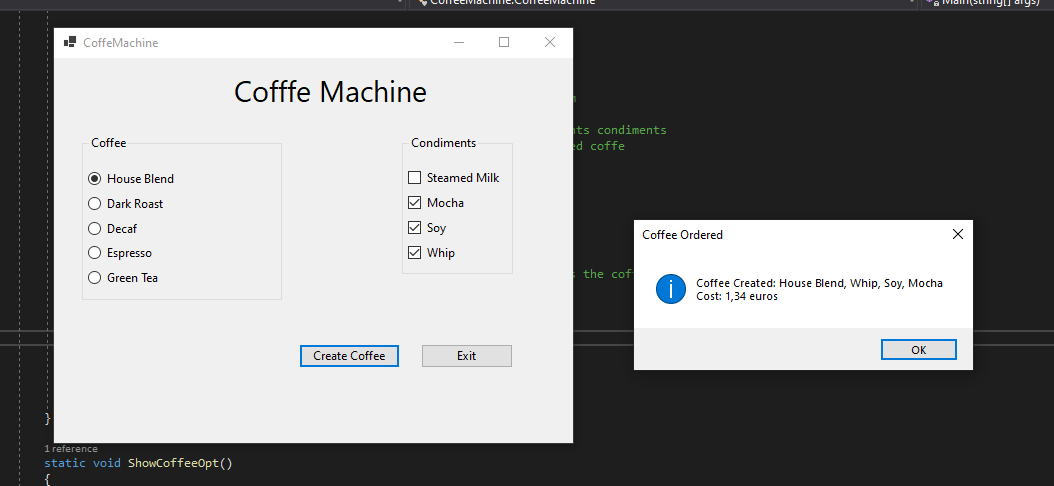
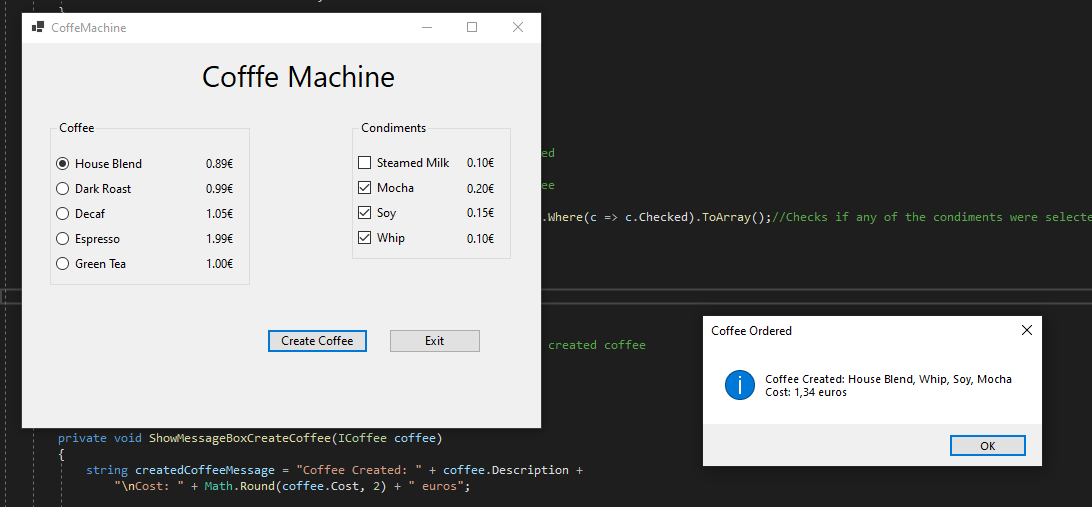
Added prices to Coffee Machine GUI

diff --git a/CoffeeMachine.GraphicalInterface/CoffeeMachineForm.Designer.cs b/CoffeeMachine.GraphicalInterface/CoffeeMachineForm.Designer.cs
@@ -1,4 +1,5 @@
-
+using CoffeeMachine.Data;
+
 namespace CoffeeMachine.GraphicalInterface
 {
     partial class CoffeeMachineForm
@@ -39,116 +40,122 @@ namespace CoffeeMachine.GraphicalInterface
             this.DecafRatioButton = new System.Windows.Forms.RadioButton();
             this.EspressoRationButton = new System.Windows.Forms.RadioButton();
             this.CoffeeBox = new System.Windows.Forms.GroupBox();
+            this.GreenTeaPrice = new System.Windows.Forms.TextBox();
+            this.EspressoPrice = new System.Windows.Forms.TextBox();
+            this.DecafPrice = new System.Windows.Forms.TextBox();
+            this.DarkRoastPrice = new System.Windows.Forms.TextBox();
+            this.HouseBlendPrice = new System.Windows.Forms.TextBox();
             this.GreenTeaRationButton = new System.Windows.Forms.RadioButton();
             this.CoffeMachineName = new System.Windows.Forms.TextBox();
             this.CreateCoffeeButton = new System.Windows.Forms.Button();
             this.ExitButton = new System.Windows.Forms.Button();
+            this.SteamedMilkPrice = new System.Windows.Forms.TextBox();
+            this.MochaPrice = new System.Windows.Forms.TextBox();
+            this.SoyPrice = new System.Windows.Forms.TextBox();
+            this.WhipPrice = new System.Windows.Forms.TextBox();
             this.CondimentsBox.SuspendLayout();
             this.CoffeeBox.SuspendLayout();
             this.SuspendLayout();
-            // 
-            // SteamedMilkCheckBox
-            // 
-            this.SteamedMilkCheckBox.AutoSize = true;
-            this.SteamedMilkCheckBox.Location = new System.Drawing.Point(6, 34);
-            this.SteamedMilkCheckBox.Name = "Steamed Milk";
-            this.SteamedMilkCheckBox.Size = new System.Drawing.Size(98, 19);
-            this.SteamedMilkCheckBox.TabIndex = 0;
-            this.SteamedMilkCheckBox.Text = "Steamed Milk";
-            this.SteamedMilkCheckBox.UseVisualStyleBackColor = true;
-            // 
-            // MochaCheckBox
-            // 
-            this.MochaCheckBox.AutoSize = true;
-            this.MochaCheckBox.Location = new System.Drawing.Point(6, 59);
-            this.MochaCheckBox.Name = "Mocha";
-            this.MochaCheckBox.Size = new System.Drawing.Size(63, 19);
-            this.MochaCheckBox.TabIndex = 1;
-            this.MochaCheckBox.Text = "Mocha";
-            this.MochaCheckBox.UseVisualStyleBackColor = true;
-            // 
-            // SoyCheckBox
-            // 
-            this.SoyCheckBox.AutoSize = true;
-            this.SoyCheckBox.Location = new System.Drawing.Point(6, 84);
-            this.SoyCheckBox.Name = "Soy";
-            this.SoyCheckBox.Size = new System.Drawing.Size(45, 19);
-            this.SoyCheckBox.TabIndex = 2;
-            this.SoyCheckBox.Text = "Soy";
-            this.SoyCheckBox.UseVisualStyleBackColor = true;
-            // 
-            // WhipCheckBox
-            // 
-            this.WhipCheckBox.AutoSize = true;
-            this.WhipCheckBox.Location = new System.Drawing.Point(6, 109);
-            this.WhipCheckBox.Name = "Whip";
-            this.WhipCheckBox.Size = new System.Drawing.Size(54, 19);
-            this.WhipCheckBox.TabIndex = 3;
-            this.WhipCheckBox.Text = "Whip";
-            this.WhipCheckBox.UseVisualStyleBackColor = true;
-            // 
-            // CondimentsBox
-            // 
-            this.CondimentsBox.Controls.Add(this.SteamedMilkCheckBox);
-            this.CondimentsBox.Controls.Add(this.WhipCheckBox);
-            this.CondimentsBox.Controls.Add(this.SoyCheckBox);
-            this.CondimentsBox.Controls.Add(this.MochaCheckBox);
-            this.CondimentsBox.Location = new System.Drawing.Point(348, 77);
-            this.CondimentsBox.Name = "CondimentsBox";
-            this.CondimentsBox.Size = new System.Drawing.Size(111, 140);
-            this.CondimentsBox.TabIndex = 4;
-            this.CondimentsBox.TabStop = false;
-            this.CondimentsBox.Text = "Condiments";
             // 
             // HouseBlendRatioButton
             // 
             this.HouseBlendRatioButton.AutoSize = true;
             this.HouseBlendRatioButton.Location = new System.Drawing.Point(6, 34);
-            this.HouseBlendRatioButton.Name = "House Blend";
+            this.HouseBlendRatioButton.Name = "HouseBlendRatioButton";
             this.HouseBlendRatioButton.Size = new System.Drawing.Size(92, 19);
             this.HouseBlendRatioButton.TabIndex = 5;
             this.HouseBlendRatioButton.TabStop = true;
             this.HouseBlendRatioButton.Text = "House Blend";
             this.HouseBlendRatioButton.UseVisualStyleBackColor = true;
             // 
+            // HouseBlendPrice
+            // 
+            this.HouseBlendPrice.BackColor = System.Drawing.SystemColors.Control;
+            this.HouseBlendPrice.BorderStyle = System.Windows.Forms.BorderStyle.None;
+            this.HouseBlendPrice.Location = new System.Drawing.Point(156, 36);
+            this.HouseBlendPrice.Name = "HouseBlendPrice";
+            this.HouseBlendPrice.Size = new System.Drawing.Size(38, 16);
+            this.HouseBlendPrice.TabIndex = 10;
+            this.HouseBlendPrice.Text = "0.89€";
+            // 
             // DarkRoastRatioButton
             // 
             this.DarkRoastRatioButton.AutoSize = true;
             this.DarkRoastRatioButton.Location = new System.Drawing.Point(6, 59);
-            this.DarkRoastRatioButton.Name = "Dark Roast";
+            this.DarkRoastRatioButton.Name = "DarkRoastRatioButton";
             this.DarkRoastRatioButton.Size = new System.Drawing.Size(81, 19);
             this.DarkRoastRatioButton.TabIndex = 6;
             this.DarkRoastRatioButton.TabStop = true;
             this.DarkRoastRatioButton.Text = "Dark Roast";
             this.DarkRoastRatioButton.UseVisualStyleBackColor = true;
             // 
+            // DarkRoastPrice
+            // 
+            this.DarkRoastPrice.BackColor = System.Drawing.SystemColors.Control;
+            this.DarkRoastPrice.BorderStyle = System.Windows.Forms.BorderStyle.None;
+            this.DarkRoastPrice.Location = new System.Drawing.Point(156, 61);
+            this.DarkRoastPrice.Name = "DarkRoastPrice";
+            this.DarkRoastPrice.Size = new System.Drawing.Size(38, 16);
+            this.DarkRoastPrice.TabIndex = 11;
+            this.DarkRoastPrice.Text = "0.99€";
+            // 
             // DecafRatioButton
             // 
             this.DecafRatioButton.AutoSize = true;
             this.DecafRatioButton.Location = new System.Drawing.Point(6, 84);
-            this.DecafRatioButton.Name = "Decaf";
+            this.DecafRatioButton.Name = "DecafRatioButton";
             this.DecafRatioButton.Size = new System.Drawing.Size(55, 19);
             this.DecafRatioButton.TabIndex = 7;
             this.DecafRatioButton.TabStop = true;
             this.DecafRatioButton.Text = "Decaf";
             this.DecafRatioButton.UseVisualStyleBackColor = true;
             // 
+            // DecafPrice
+            // 
+            this.DecafPrice.BackColor = System.Drawing.SystemColors.Control;
+            this.DecafPrice.BorderStyle = System.Windows.Forms.BorderStyle.None;
+            this.DecafPrice.Location = new System.Drawing.Point(156, 86);
+            this.DecafPrice.Name = "DecafPrice";
+            this.DecafPrice.Size = new System.Drawing.Size(38, 16);
+            this.DecafPrice.TabIndex = 12;
+            this.DecafPrice.Text = "1.05€";
+            // 
             // EspressoRationButton
             // 
             this.EspressoRationButton.AutoSize = true;
-            this.EspressoRationButton.Location = new System.Drawing.Point(6, 108);
-            this.EspressoRationButton.Name = "Espresso";
+            this.EspressoRationButton.Location = new System.Drawing.Point(6, 109);
+            this.EspressoRationButton.Name = "EspressoRationButton";
             this.EspressoRationButton.Size = new System.Drawing.Size(70, 19);
             this.EspressoRationButton.TabIndex = 8;
             this.EspressoRationButton.TabStop = true;
             this.EspressoRationButton.Text = "Espresso";
             this.EspressoRationButton.UseVisualStyleBackColor = true;
             // 
+            // EspressoPrice
+            // 
+            this.EspressoPrice.BackColor = System.Drawing.SystemColors.Control;
+            this.EspressoPrice.BorderStyle = System.Windows.Forms.BorderStyle.None;
+            this.EspressoPrice.Location = new System.Drawing.Point(156, 111);
+            this.EspressoPrice.Name = "EspressoPrice";
+            this.EspressoPrice.Size = new System.Drawing.Size(38, 16);
+            this.EspressoPrice.TabIndex = 13;
+            this.EspressoPrice.Text = "1.99€";
+            // 
+            // GreenTeaPrice
+            // 
+            this.GreenTeaPrice.BackColor = System.Drawing.SystemColors.Control;
+            this.GreenTeaPrice.BorderStyle = System.Windows.Forms.BorderStyle.None;
+            this.GreenTeaPrice.Location = new System.Drawing.Point(156, 136);
+            this.GreenTeaPrice.Name = "GreenTeaPrice";
+            this.GreenTeaPrice.Size = new System.Drawing.Size(38, 16);
+            this.GreenTeaPrice.TabIndex = 14;
+            this.GreenTeaPrice.Text = "1.00€";
+            // 
             // GreenTeaRationButton
             // 
             this.GreenTeaRationButton.AutoSize = true;
-            this.GreenTeaRationButton.Location = new System.Drawing.Point(6, 133);
-            this.GreenTeaRationButton.Name = "Green Tea";
+            this.GreenTeaRationButton.Location = new System.Drawing.Point(6, 134);
+            this.GreenTeaRationButton.Name = "GreenTeaRationButton";
             this.GreenTeaRationButton.Size = new System.Drawing.Size(76, 19);
             this.GreenTeaRationButton.TabIndex = 9;
             this.GreenTeaRationButton.TabStop = true;
@@ -157,6 +164,11 @@ namespace CoffeeMachine.GraphicalInterface
             // 
             // CoffeeBox
             // 
+            this.CoffeeBox.Controls.Add(this.GreenTeaPrice);
+            this.CoffeeBox.Controls.Add(this.EspressoPrice);
+            this.CoffeeBox.Controls.Add(this.DecafPrice);
+            this.CoffeeBox.Controls.Add(this.DarkRoastPrice);
+            this.CoffeeBox.Controls.Add(this.HouseBlendPrice);
             this.CoffeeBox.Controls.Add(this.HouseBlendRatioButton);
             this.CoffeeBox.Controls.Add(this.DarkRoastRatioButton);
             this.CoffeeBox.Controls.Add(this.DecafRatioButton);
@@ -169,6 +181,103 @@ namespace CoffeeMachine.GraphicalInterface
             this.CoffeeBox.TabStop = false;
             this.CoffeeBox.Text = "Coffee";
             this.CoffeeBox.Enter += new System.EventHandler(this.CoffeeBox_Enter);
+            // 
+            // SteamedMilkCheckBox
+            // 
+            this.SteamedMilkCheckBox.AutoSize = true;
+            this.SteamedMilkCheckBox.Location = new System.Drawing.Point(6, 34);
+            this.SteamedMilkCheckBox.Name = "SteamedMilkCheckBox";
+            this.SteamedMilkCheckBox.Size = new System.Drawing.Size(98, 19);
+            this.SteamedMilkCheckBox.TabIndex = 0;
+            this.SteamedMilkCheckBox.Text = "Steamed Milk";
+            this.SteamedMilkCheckBox.UseVisualStyleBackColor = true;
+            // 
+            // SteamedMilkPrice
+            // 
+            this.SteamedMilkPrice.BackColor = System.Drawing.SystemColors.Control;
+            this.SteamedMilkPrice.BorderStyle = System.Windows.Forms.BorderStyle.None;
+            this.SteamedMilkPrice.Location = new System.Drawing.Point(115, 35);
+            this.SteamedMilkPrice.Name = "SteamedMilkPrice";
+            this.SteamedMilkPrice.Size = new System.Drawing.Size(38, 16);
+            this.SteamedMilkPrice.TabIndex = 15;
+            this.SteamedMilkPrice.Text = "0.10€";
+            // 
+            // MochaCheckBox
+            // 
+            this.MochaCheckBox.AutoSize = true;
+            this.MochaCheckBox.Location = new System.Drawing.Point(6, 59);
+            this.MochaCheckBox.Name = "MochaCheckBox";
+            this.MochaCheckBox.Size = new System.Drawing.Size(63, 19);
+            this.MochaCheckBox.TabIndex = 1;
+            this.MochaCheckBox.Text = "Mocha";
+            this.MochaCheckBox.UseVisualStyleBackColor = true;
+            // 
+            // MochaPrice
+            // 
+            this.MochaPrice.BackColor = System.Drawing.SystemColors.Control;
+            this.MochaPrice.BorderStyle = System.Windows.Forms.BorderStyle.None;
+            this.MochaPrice.Location = new System.Drawing.Point(115, 61);
+            this.MochaPrice.Name = "MochaPrice";
+            this.MochaPrice.Size = new System.Drawing.Size(38, 16);
+            this.MochaPrice.TabIndex = 16;
+            this.MochaPrice.Text = "0.20€";
+            // 
+            // SoyCheckBox
+            // 
+            this.SoyCheckBox.AutoSize = true;
+            this.SoyCheckBox.Location = new System.Drawing.Point(6, 84);
+            this.SoyCheckBox.Name = "SoyCheckBox";
+            this.SoyCheckBox.Size = new System.Drawing.Size(45, 19);
+            this.SoyCheckBox.TabIndex = 2;
+            this.SoyCheckBox.Text = "Soy";
+            this.SoyCheckBox.UseVisualStyleBackColor = true;
+            // 
+            // SoyPrice
+            // 
+            this.SoyPrice.BackColor = System.Drawing.SystemColors.Control;
+            this.SoyPrice.BorderStyle = System.Windows.Forms.BorderStyle.None;
+            this.SoyPrice.Location = new System.Drawing.Point(115, 85);
+            this.SoyPrice.Name = "SoyPrice";
+            this.SoyPrice.Size = new System.Drawing.Size(38, 16);
+            this.SoyPrice.TabIndex = 17;
+            this.SoyPrice.Text = "0.15€";
+            // 
+            // WhipCheckBox
+            // 
+            this.WhipCheckBox.AutoSize = true;
+            this.WhipCheckBox.Location = new System.Drawing.Point(6, 109);
+            this.WhipCheckBox.Name = "WhipCheckBox";
+            this.WhipCheckBox.Size = new System.Drawing.Size(54, 19);
+            this.WhipCheckBox.TabIndex = 3;
+            this.WhipCheckBox.Text = "Whip";
+            this.WhipCheckBox.UseVisualStyleBackColor = true;
+            // 
+            // WhipPrice
+            // 
+            this.WhipPrice.BackColor = System.Drawing.SystemColors.Control;
+            this.WhipPrice.BorderStyle = System.Windows.Forms.BorderStyle.None;
+            this.WhipPrice.Location = new System.Drawing.Point(115, 111);
+            this.WhipPrice.Name = "WhipPrice";
+            this.WhipPrice.Size = new System.Drawing.Size(38, 16);
+            this.WhipPrice.TabIndex = 18;
+            this.WhipPrice.Text = "0.10€";
+            // 
+            // CondimentsBox
+            // 
+            this.CondimentsBox.Controls.Add(this.WhipPrice);
+            this.CondimentsBox.Controls.Add(this.SoyPrice);
+            this.CondimentsBox.Controls.Add(this.MochaPrice);
+            this.CondimentsBox.Controls.Add(this.SteamedMilkPrice);
+            this.CondimentsBox.Controls.Add(this.SteamedMilkCheckBox);
+            this.CondimentsBox.Controls.Add(this.WhipCheckBox);
+            this.CondimentsBox.Controls.Add(this.SoyCheckBox);
+            this.CondimentsBox.Controls.Add(this.MochaCheckBox);
+            this.CondimentsBox.Location = new System.Drawing.Point(330, 77);
+            this.CondimentsBox.Name = "CondimentsBox";
+            this.CondimentsBox.Size = new System.Drawing.Size(159, 140);
+            this.CondimentsBox.TabIndex = 4;
+            this.CondimentsBox.TabStop = false;
+            this.CondimentsBox.Text = "Condiments";
             // 
             // CoffeMachineName
             // 
@@ -183,6 +292,7 @@ namespace CoffeeMachine.GraphicalInterface
             // 
             // CreateCoffeeButton
             // 
+            this.CreateCoffeeButton.Enabled = false;
             this.CreateCoffeeButton.Location = new System.Drawing.Point(245, 286);
             this.CreateCoffeeButton.Name = "CreateCoffeeButton";
             this.CreateCoffeeButton.Size = new System.Drawing.Size(101, 24);
@@ -190,7 +300,6 @@ namespace CoffeeMachine.GraphicalInterface
             this.CreateCoffeeButton.Text = "Create Coffee";
             this.CreateCoffeeButton.UseVisualStyleBackColor = true;
             this.CreateCoffeeButton.Click += new System.EventHandler(this.CreateCoffeeButton_Click);
-            this.CreateCoffeeButton.Enabled = false;
             // 
             // ExitButton
             // 
@@ -200,7 +309,7 @@ namespace CoffeeMachine.GraphicalInterface
             this.ExitButton.TabIndex = 13;
             this.ExitButton.Text = "Exit";
             this.ExitButton.UseVisualStyleBackColor = true;
-            this.ExitButton.Click += new System.EventHandler(this.ExitButton_Click);
+            this.ExitButton.Click += new System.EventHandler(this.ExitButton_Click);          
             // 
             // CoffeeMachineForm
             // 
@@ -239,6 +348,15 @@ namespace CoffeeMachine.GraphicalInterface
         private System.Windows.Forms.TextBox CoffeMachineName;
         private System.Windows.Forms.Button CreateCoffeeButton;
         private System.Windows.Forms.Button ExitButton;
+        private System.Windows.Forms.TextBox HouseBlendPrice;
+        private System.Windows.Forms.TextBox GreenTeaPrice;
+        private System.Windows.Forms.TextBox EspressoPrice;
+        private System.Windows.Forms.TextBox DecafPrice;
+        private System.Windows.Forms.TextBox DarkRoastPrice;
+        private System.Windows.Forms.TextBox WhipPrice;
+        private System.Windows.Forms.TextBox SoyPrice;
+        private System.Windows.Forms.TextBox MochaPrice;
+        private System.Windows.Forms.TextBox SteamedMilkPrice;
     }
 }
 

diff --git a/CoffeeMachine.GraphicalInterface/CoffeeMachineForm.cs b/CoffeeMachine.GraphicalInterface/CoffeeMachineForm.cs
@@ -31,7 +31,7 @@ namespace CoffeeMachine.GraphicalInterface
             ICoffee coffee;
 
             string ratioCoffeName = CoffeeBox.Controls.OfType<RadioButton>()
-                .FirstOrDefault(r => r.Checked).Name; //Gets the coffee checked
+                .FirstOrDefault(r => r.Checked).Text; //Gets the coffee checked
 
             coffee = factory.CreateCoffee(ratioCoffeName); //Creates the coffee
 
@@ -40,7 +40,7 @@ namespace CoffeeMachine.GraphicalInterface
             //Add the checked Condiments to the coffee
             foreach (var condiments in checkedCondiments)
             {
-                coffee = factory.AddCondiment(coffee, condiments.Name);
+                coffee = factory.AddCondiment(coffee, condiments.Text);
             }
 
             ShowMessageBoxCreateCoffee(coffee); //Show a Message Box with the created coffee
